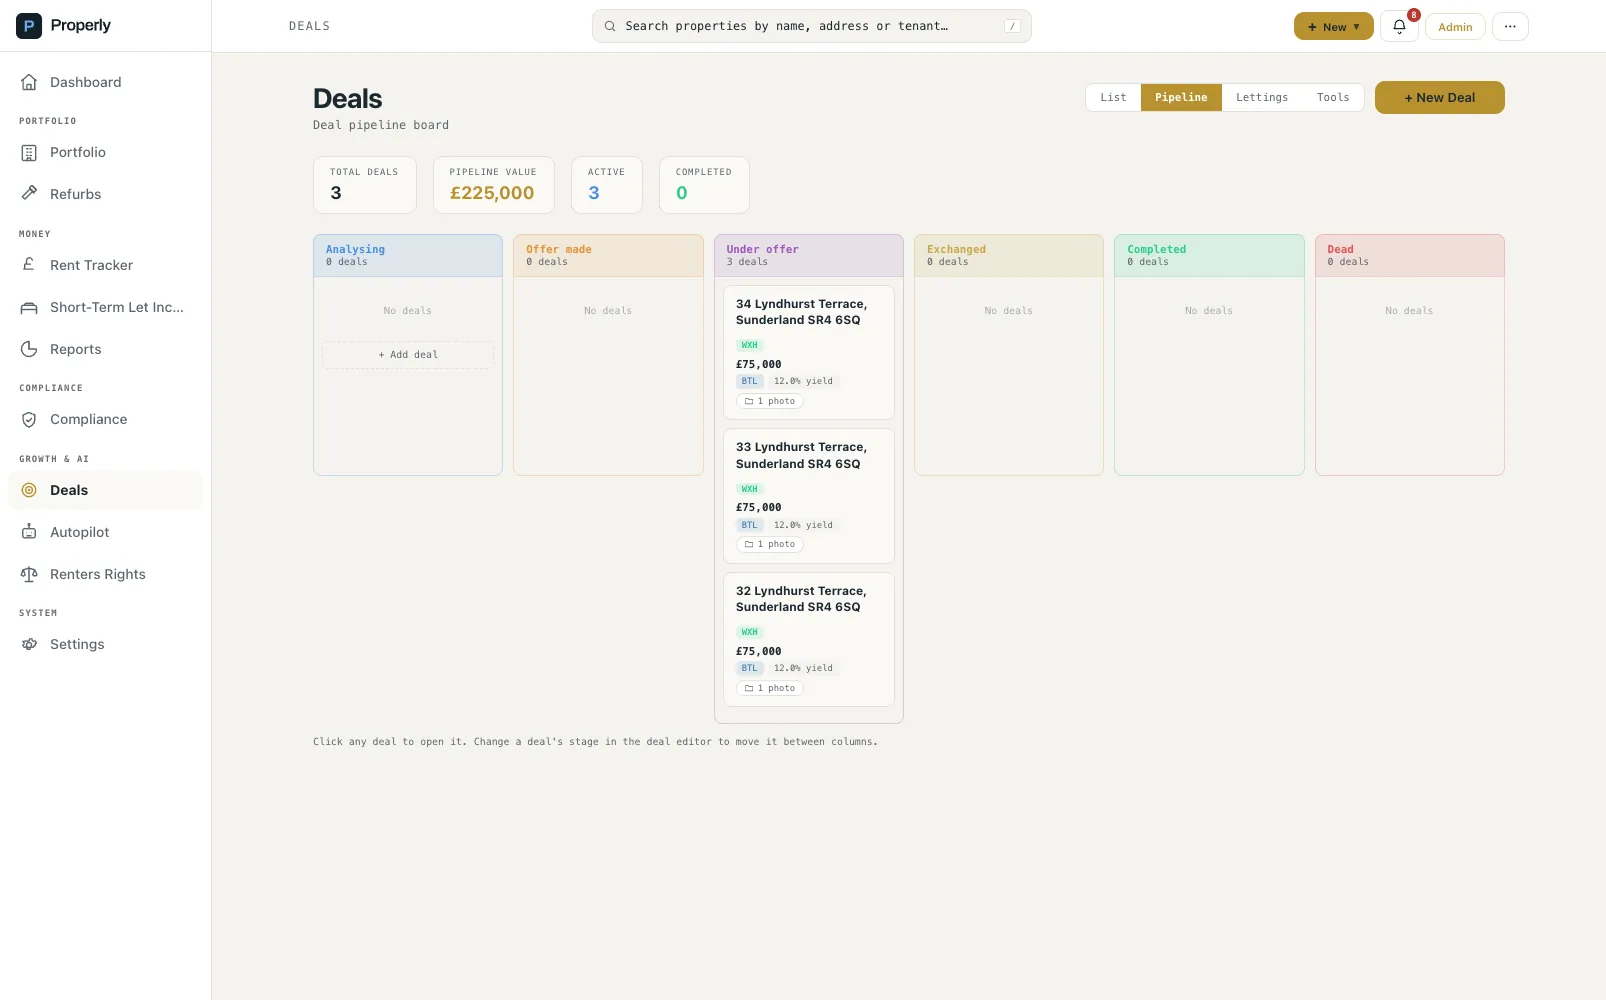
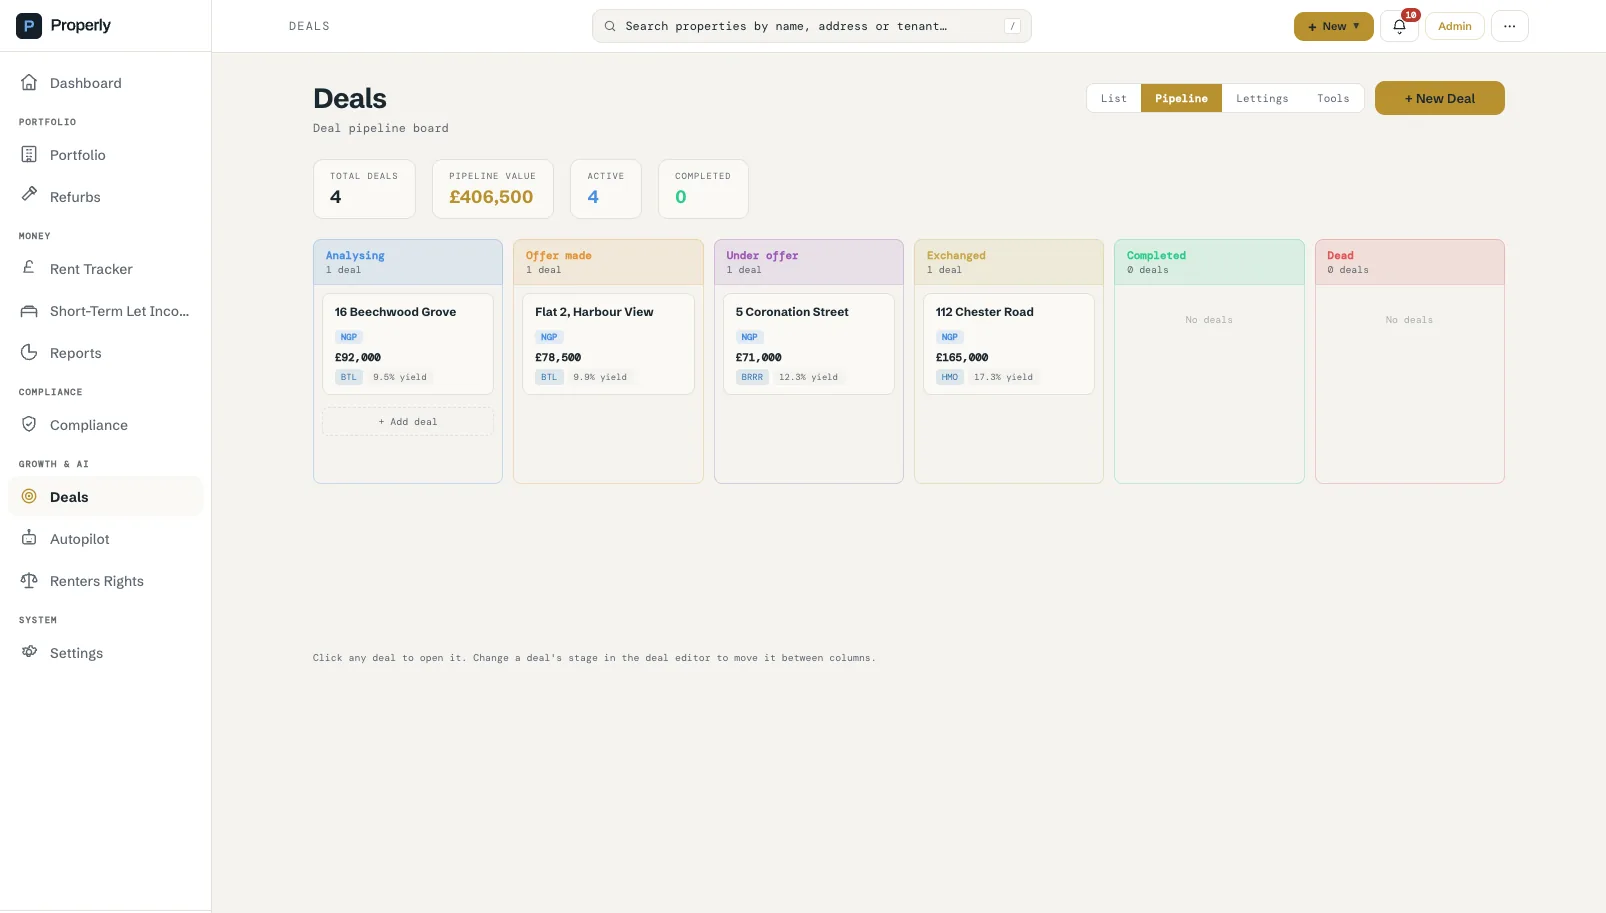
Marketing: Inside Properly shows the demo account (12 screens), impersonation scopes companies too
The six marketing screenshots were captures of the founder's real portfolio
with names masked. They are replaced by twelve captures of the fictional
demo account (Northgate Property Ltd + Harbour Lets Ltd) taken 8 Sep 2026
via Platform Admin > Impersonate: dashboard, portfolio, property, rent
tracker, short-term lets, reports, compliance, deals pipeline, deal
calculator, refurbs, autopilot and the branded tenant portal sign-in. The
copy no longer refers to a 153-property portfolio or to masking, each tab
has its own URL label, and the frame is 1606x913.

App.jsx: while impersonating, filter the company list to the impersonated
user's companies as well as the properties. Until now the company chips,
the By Company cards and the "N companies" summary showed every company the
admin could see, each with zero properties, next to the impersonated user's
data.

diff --git a/src/components/MarketingSite.jsx b/src/components/MarketingSite.jsx
@@ -149,29 +149,49 @@ const steps = [
   { n: '3', title: 'Run your portfolio', desc: 'Track rent, stay compliant, manage repairs and generate reports — everything from one clean dashboard.' },
 ]
 
-// Real screens from a live portfolio (the founder's own), captured 7 Sep
-// 2026. Guest and manager names are masked; the properties are not.
-// Files live in public/screens; crop is the top 1000px of a 1606px-wide app
-// window, saved as WebP.
+// Real screens from a live Properly account, captured 8 Sep 2026: the demo
+// portfolio (Northgate Property Ltd and Harbour Lets Ltd, 19 units across two
+// companies, fictional people). Files live in public/screens; each is the
+// top 913px of a 1606px-wide app window, saved as WebP. Refresh recipe: sign
+// in as a platform admin, Impersonate the demo user, capture with
+// html-to-image.
 const SCREENS = [
-  { id: 'dashboard',  label: 'Dashboard',        img: '/screens/dashboard.webp',
+  { id: 'dashboard',  label: 'Dashboard',        img: '/screens/dashboard.webp', url: 'dashboard',
     title: 'The whole portfolio on one page',
-    desc: '153 properties across six companies: value, equity, a health score, the items that need attention today, Autopilot suggestions and AI insights that name the property and the number.' },
-  { id: 'rent',       label: 'Rent Tracker',     img: '/screens/rent-tracker.webp',
+    desc: 'Value, equity, rent received against forecast, arrears, occupancy and a health score across every company, with the items that need attention today, a portfolio map, Autopilot suggestions and AI insights underneath.' },
+  { id: 'portfolio',  label: 'Portfolio',        img: '/screens/portfolio.webp', url: 'properties',
+    title: 'Every unit, grouped by company and building',
+    desc: 'Houses, flats in a block, HMO rooms and serviced apartments in one list or grid, with status, yield and rent on every row, filters by company and status, a map view and a one-step block-of-flats add.' },
+  { id: 'property',   label: 'Property',         img: '/screens/property.webp', url: 'detail',
+    title: 'One page per property, one tab per job',
+    desc: 'Rent history month by month, tenancy, financials, compliance certificates, maintenance, documents, expenses and the refurb ledger for a single property, with the arrears position and quick stats always in view.' },
+  { id: 'rent',       label: 'Rent Tracker',     img: '/screens/rent-tracker.webp', url: 'rent',
     title: 'Every month of every tenancy, at a glance',
-    desc: 'Paid, due, missed and part-paid month squares per property, grouped by company and building, with the collection rate and arrears position for the year always current.' },
-  { id: 'stl',        label: 'Short-term lets',  img: '/screens/stl-income.webp',
+    desc: 'Paid, due, missed and part-paid month squares per property, grouped by company and building, with the collection rate and arrears position for the year and a day-by-day view for the current month.' },
+  { id: 'stl',        label: 'Short-term lets',  img: '/screens/stl-income.webp', url: 'stl',
     title: 'Airbnb and Booking.com income, after the fees',
-    desc: 'Gross, platform fees, manager fees and net to owner for any period; occupancy, ADR and RevPAR on the rooms actually open; who is in house tonight and who arrives this week.' },
-  { id: 'compliance', label: 'Compliance',       img: '/screens/compliance.webp',
+    desc: 'Gross, platform fees, manager fees and net to owner for any period; occupancy, ADR and RevPAR on the rooms actually open; who is in house tonight and what is arriving, synced from Hostaway or Lodgify.' },
+  { id: 'reports',    label: 'Reports',          img: '/screens/reports.webp', url: 'reports/full_pnl',
+    title: 'Twenty reports, one click each',
+    desc: 'Full Portfolio P&L per property and per company, cash flow, yield comparison, arrears, compliance, mortgage interest, capital gains and the MTD tax pack, for any tax year or calendar year, as PDF or CSV.' },
+  { id: 'compliance', label: 'Compliance',       img: '/screens/compliance.webp', url: 'compliance',
     title: 'Certificates and paperwork per property',
-    desc: 'Gas, EICR, EPC, smoke and CO, licences, deposits and Right to Rent for each unit, with legal requirements separated from advisory gaps and a one-click entry for a whole building.' },
-  { id: 'deals',      label: 'Deals',            img: '/screens/deals.webp',
+    desc: 'Gas, EICR, EPC, smoke and CO, licences, deposits and Right to Rent for each unit, with legal requirements separated from advisory gaps, an expiry matrix, insurance per building and automatic reminders.' },
+  { id: 'deals',      label: 'Deals',            img: '/screens/deals.webp', url: 'deals/pipeline',
     title: 'A pipeline for what you might buy next',
-    desc: 'Analysing, offer made, under offer, exchanged and completed, with price, yield and photos on every card and a full deal pack PDF one click away.' },
-  { id: 'refurbs',    label: 'Refurbs',          img: '/screens/refurbs.webp',
+    desc: 'Analysing, offer made, under offer, exchanged and completed on a board or list, with price, yield and cash committed on every card, a purchase timeline of milestones and a full deal pack PDF one click away.' },
+  { id: 'deal-calc',  label: 'Deal calculator',  img: '/screens/deal-calculator.webp', url: 'deals/deal',
+    title: 'Stamp duty, mortgage and returns before you offer',
+    desc: 'Buy-to-let, HMO, serviced apartment, BRR or flip: acquisition costs with the additional-property surcharge, mortgage and rental income, gross yield, net yield, cash-on-cash return and a ten-year projection.' },
+  { id: 'refurbs',    label: 'Refurbs',          img: '/screens/refurbs.webp', url: 'refurbs',
     title: 'Agreed price against what you have paid',
-    desc: 'Each refurb with its agreed total, extras, payments so far and remaining to pay, filtered by company, so the money committed to works is never a guess.' },
+    desc: 'Each refurb with its agreed total, extras, payments so far and remaining to pay, on a list, a stage board or a payments ledger, filtered by company, so the money committed to works is never a guess.' },
+  { id: 'autopilot',  label: 'Autopilot',        img: '/screens/autopilot.webp', url: 'autopilot',
+    title: 'A daily to-do list the software writes for you',
+    desc: 'Expired gas certificates, boiler services due, smoke alarm tests, insurance renewals and rent arrears, each with a plain-English draft to send, so the day starts with actions instead of spreadsheets.' },
+  { id: 'tenant',     label: 'Tenant portal',    img: '/screens/tenant-portal.webp', url: 'portal',
+    title: 'Your tenants get their own branded portal',
+    desc: 'A sign-in page on your-company.ownproperly.com where tenants see their tenancy, payment history and shared documents, and raise repairs with photos, in your company name and colours.' },
 ]
 
 export default function MarketingSite({ onSignIn, onSignUp, onPrivacy }) {
@@ -259,9 +279,9 @@ export default function MarketingSite({ onSignIn, onSignUp, onPrivacy }) {
         <div style={{ maxWidth: 1100, margin: '0 auto' }}>
           <div style={{ textAlign: 'center', marginBottom: 36 }}>
             <div style={{ fontFamily: MONO, fontSize: 11, color: GOLD, textTransform: 'uppercase', letterSpacing: '0.12em', marginBottom: 12 }}>Inside Properly</div>
-            <h2 style={{ fontSize: 36, fontWeight: 600, color: SLATE, letterSpacing: '-0.02em', marginBottom: 14 }}>Real screens, real portfolio</h2>
+            <h2 style={{ fontSize: 36, fontWeight: 600, color: SLATE, letterSpacing: '-0.02em', marginBottom: 14 }}>Real screens, live account</h2>
             <p style={{ fontFamily: MONO, fontSize: 14, color: MUTED, lineHeight: 1.7, maxWidth: 600, margin: '0 auto' }}>
-              These are live pages from the founder's own 153-property portfolio, not mock-ups. Guest and manager names are masked; everything else is as it runs today.
+              These are live pages from a working Properly account, not mock-ups: a two-company portfolio of houses, a block of flats, an HMO and six serviced apartments, exactly as it runs today.
             </p>
           </div>
           <div className="screen-tabs" role="tablist" aria-label="Product screens" style={{ display: 'flex', gap: 6, justifyContent: 'center', flexWrap: 'wrap', marginBottom: 22 }}>
@@ -275,9 +295,9 @@ export default function MarketingSite({ onSignIn, onSignUp, onPrivacy }) {
           <div className="screen-frame">
             <div className="screen-frame-bar" aria-hidden="true">
               <span/><span/><span/>
-              <div className="screen-frame-url">www.ownproperly.com/#/{shot.id}</div>
+              <div className="screen-frame-url">www.ownproperly.com/#/{shot.url}</div>
             </div>
-            <img key={shot.id} src={shot.img} alt={`Properly ${shot.label} page: ${shot.title}`} width={1606} height={1000} loading={shot.id === SCREENS[0].id ? 'eager' : 'lazy'} decoding="async"
+            <img key={shot.id} src={shot.img} alt={`Properly ${shot.label} page: ${shot.title}`} width={1606} height={913} loading={shot.id === SCREENS[0].id ? 'eager' : 'lazy'} decoding="async"
               style={{ display: 'block', width: '100%', height: 'auto' }}/>
           </div>
           <div className="screen-caption" style={{ display: 'flex', gap: 24, alignItems: 'flex-start', marginTop: 22, maxWidth: 860, margin: '22px auto 0' }}>

diff --git a/src/App.jsx b/src/App.jsx
@@ -1429,6 +1429,11 @@ export default function App() {
               ...targetAccessEmail.map(a => a.company_id),
             ])
             visibleProps = props.filter(p => targetCompanyIds.has(p.company_id))
+            // Until 2026-09-08 only the properties were filtered, so the
+            // company chips, the By Company cards and the "N companies"
+            // summary still showed every company the admin could see, each
+            // with zero properties, next to the impersonated user's data.
+            visibleCos = cos.filter(c => targetCompanyIds.has(c.id))
           } catch(e) { console.error('Impersonation filter failed', e) }
         }
         // ─── Suspended-company access control ────────────────────────────
